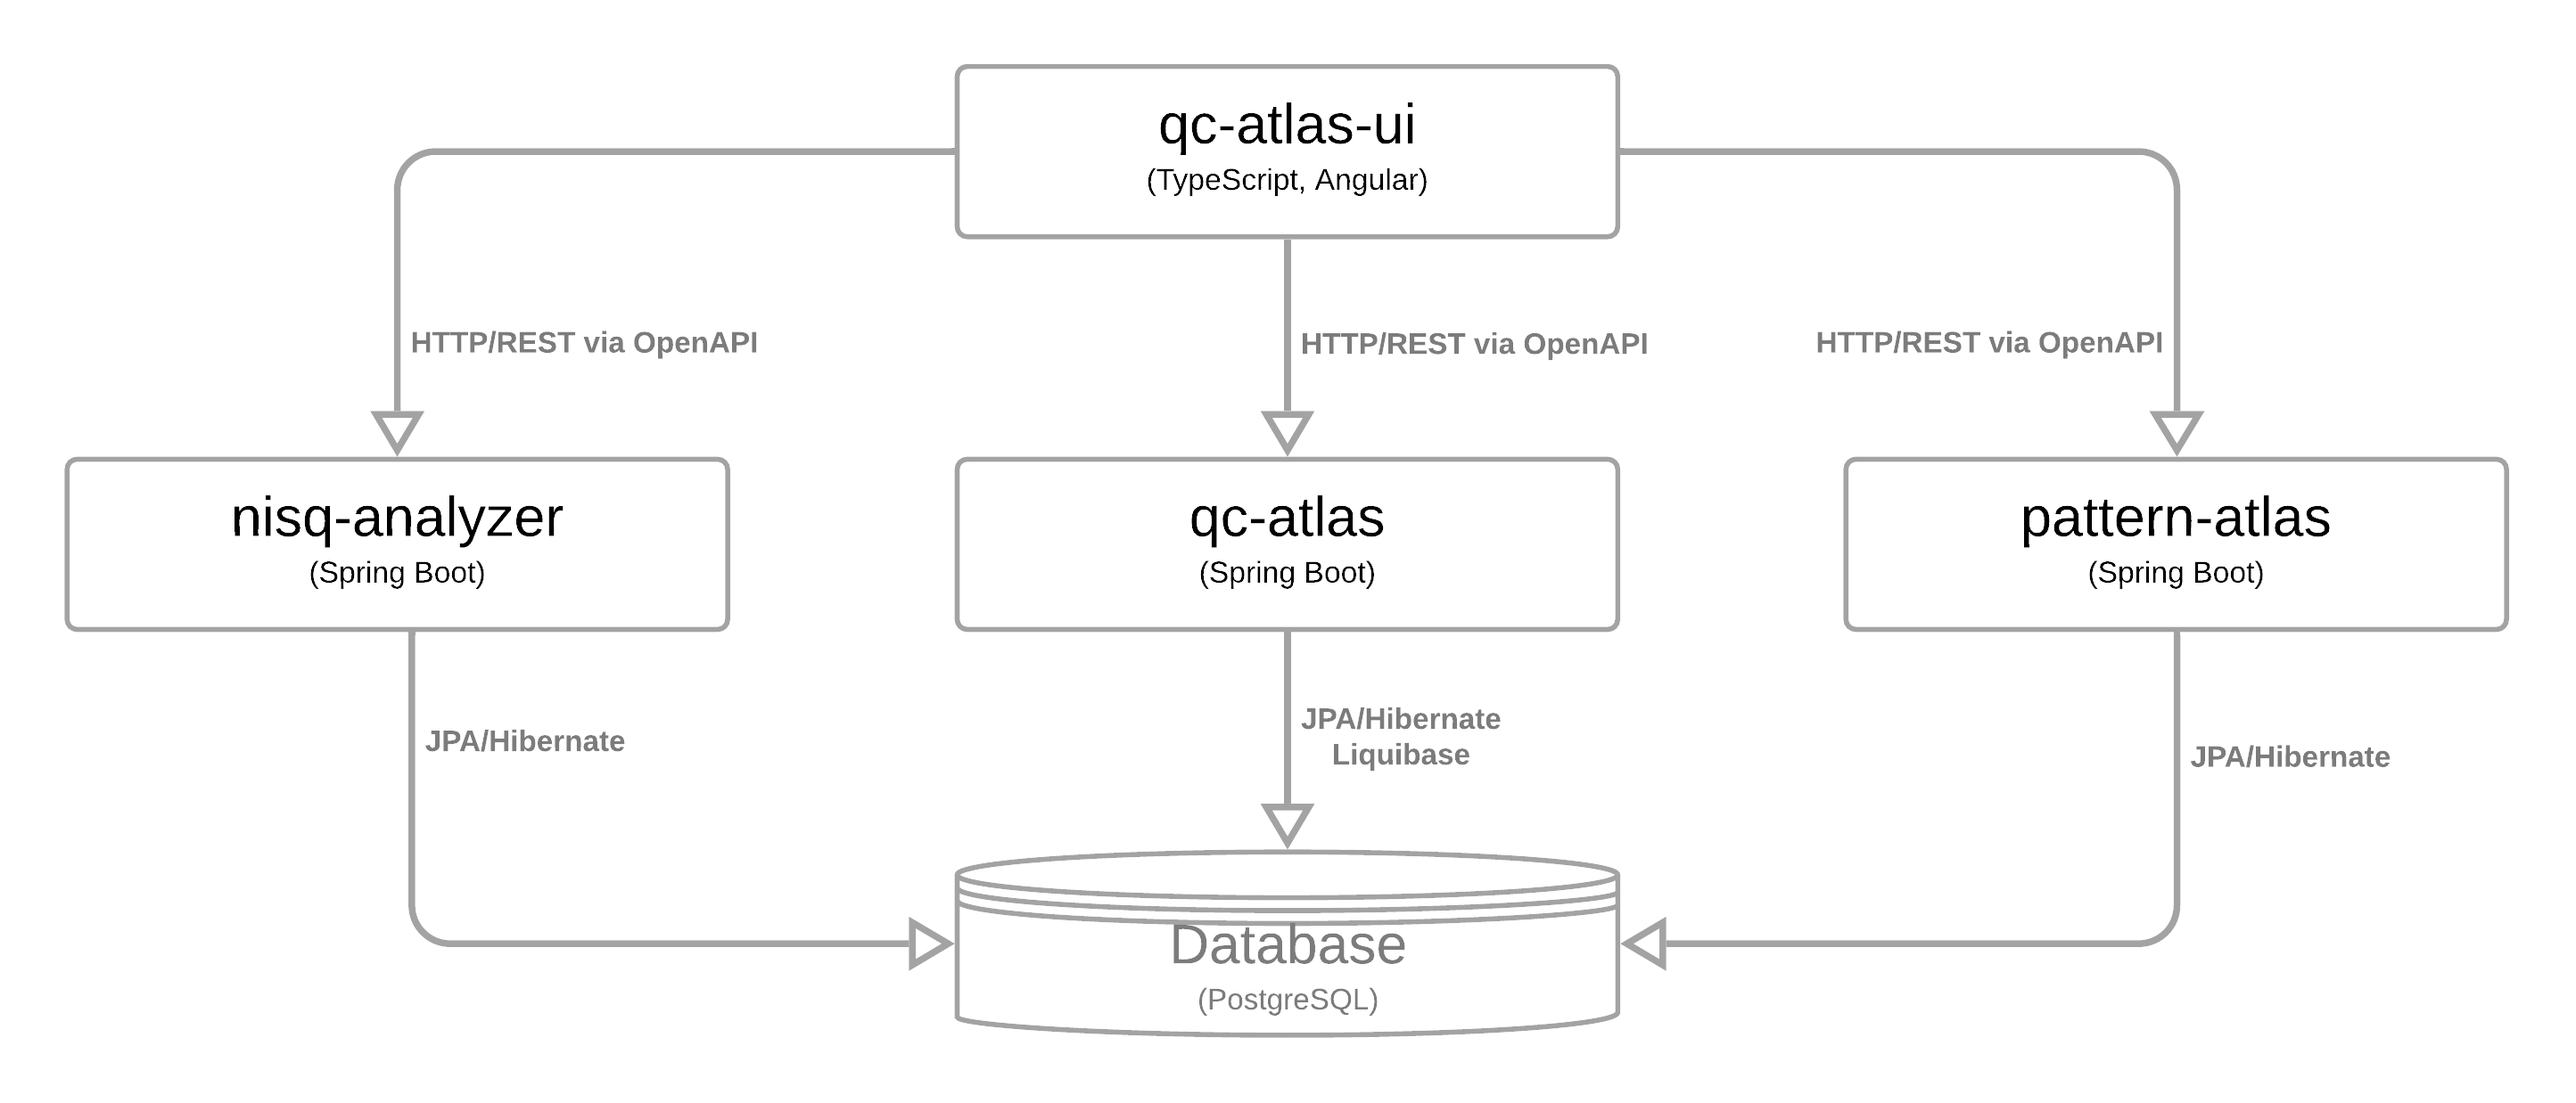
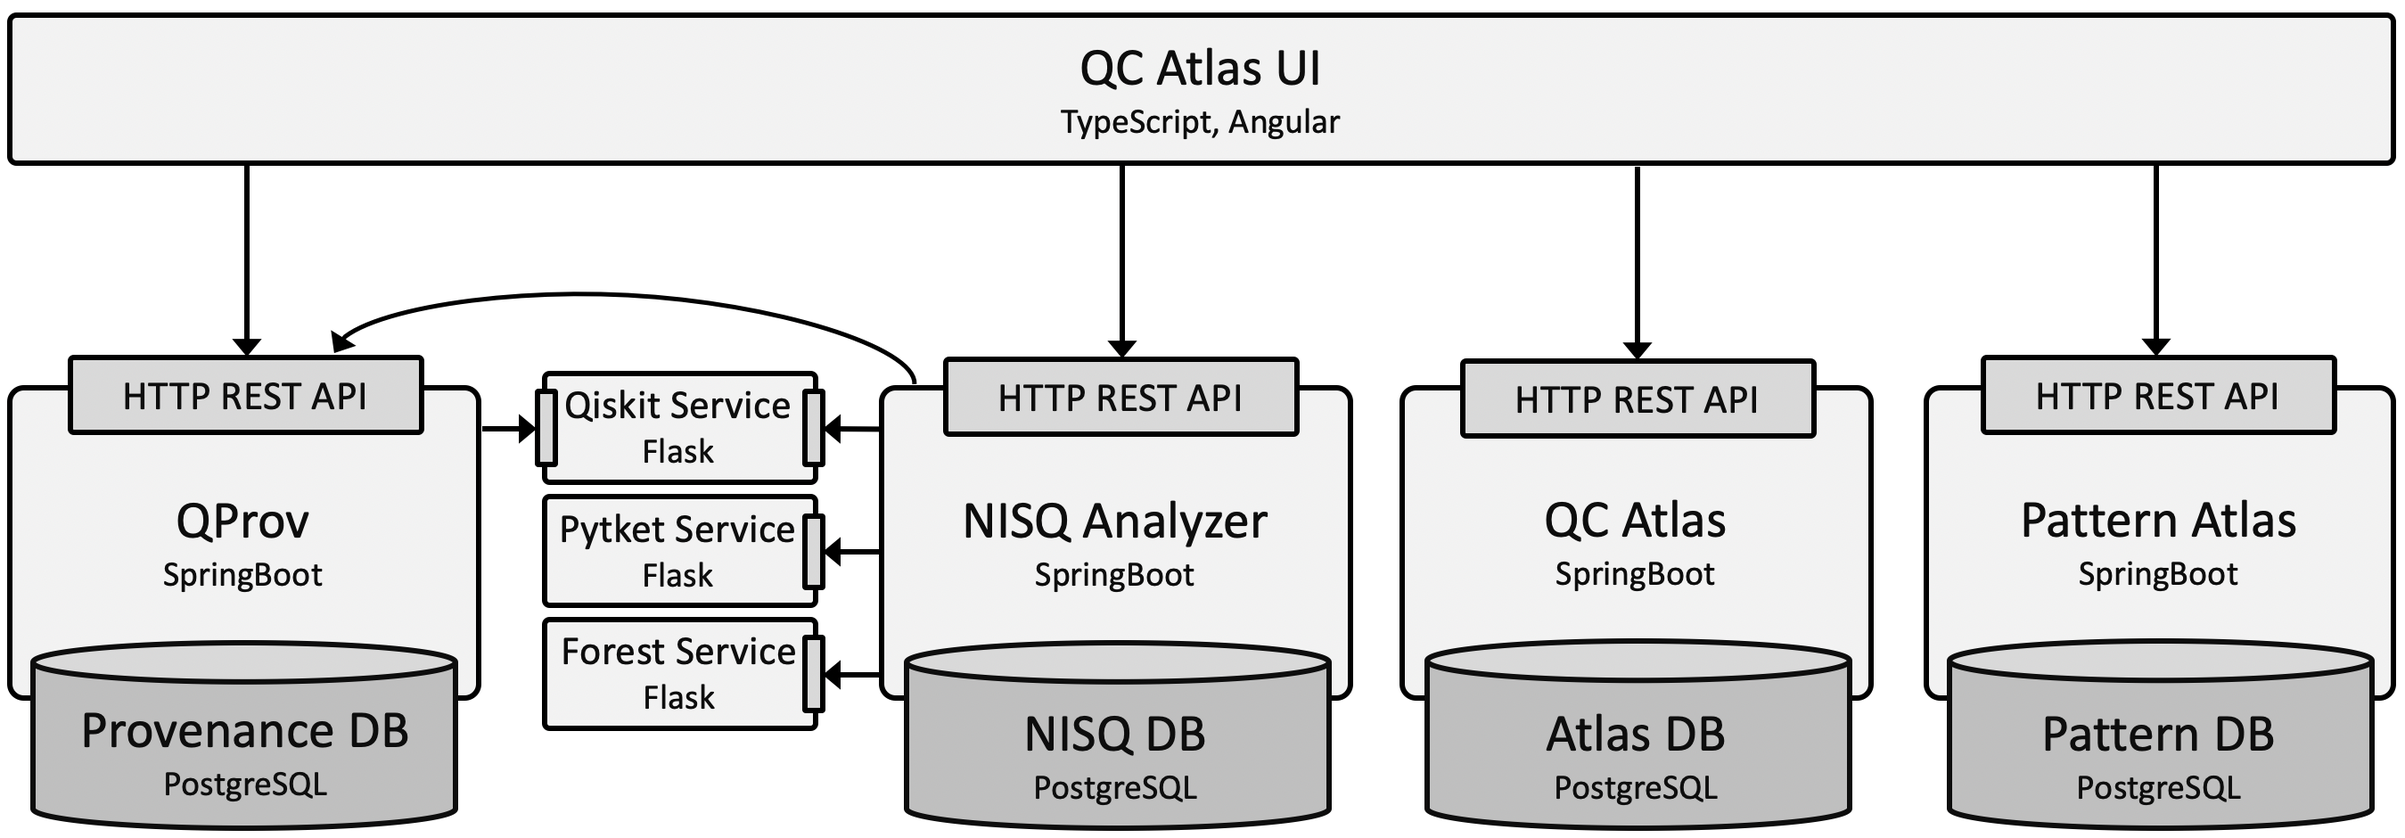
update overall component image

diff --git a/docs/index.md b/docs/index.md
@@ -8,8 +8,12 @@ The source code for these components can be found at the following locations:
 - [qc-atlas-ui](https://github.com/UST-QuAntiL/qc-atlas-ui)
 - [qc-atlas](https://github.com/UST-QuAntiL/qc-atlas)
 - [nisq-analyzer](https://github.com/UST-QuAntiL/nisq-analyzer)
+- [qprov](https://github.com/UST-QuAntiL/qprov)
 - [pattern-atlas](https://github.com/PatternAtlas/pattern-atlas-api)
+- [qiskit-service](https://github.com/UST-QuAntiL/qiskit-service)
+- [pytket-service](https://github.com/UST-QuAntiL/pytket-service)
+- [forest-service](https://github.com/UST-QuAntiL/forest-service)
 
 
 ## QC Atlas
-QC Atlas is a platform for sharing quantum software as part of the [Quantum Application Lifecycle Management](https://github.com/UST-QuAntiL).
+QC Atlas is a platform for sharing quantum software as part of the [Quantum Application Lifecycle Management (QuAntiL)](https://github.com/UST-QuAntiL).

diff --git a/docs/user-guide/qprov.md b/docs/user-guide/qprov.md
@@ -20,4 +20,4 @@ A great set of provenance data about the topology, metadata, qubits, and quantum
 
 ## Calculating the Calibration matrix of a QPU
 
-For calculating the calibration matrices for given QPUs, set `QPROV_IBMQ_EXECUTE_CIRCUITS` to **true**.
+For calculating the calibration matrices for given QPUs, set `QPROV_IBMQ_EXECUTE_CIRCUITS` to **true**. Therefore, the [qiskit-service](https://github.com/UST-QuAntiL/qiskit-service) is used.

diff --git a/docs/user-guide/overview.md b/docs/user-guide/overview.md
@@ -12,6 +12,8 @@
 * [Algorithm Relation Type](../user-guide/algorithm-relation-type.md)
 * [Pattern Relation Type](../user-guide/pattern-relation-type.md)
 * [Compute Resource Property Type](../user-guide/compute-resource-property-type.md)
+* [NISQ Analyzer](../user-guide/nisq-analyzer.md)
+* [QProv](../user-guide/qprov.md)
 
 ## UI-Components
 The UI of the ``Pattern-Atlas`` is built using ``List Views`` and ``Object Views``.
